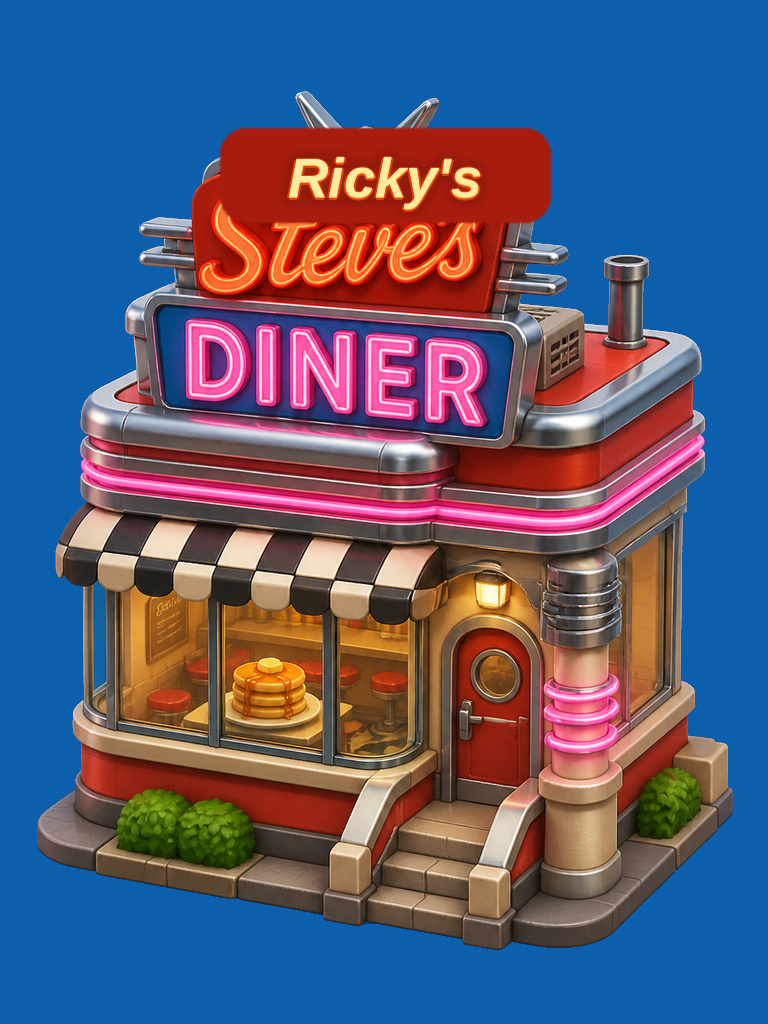
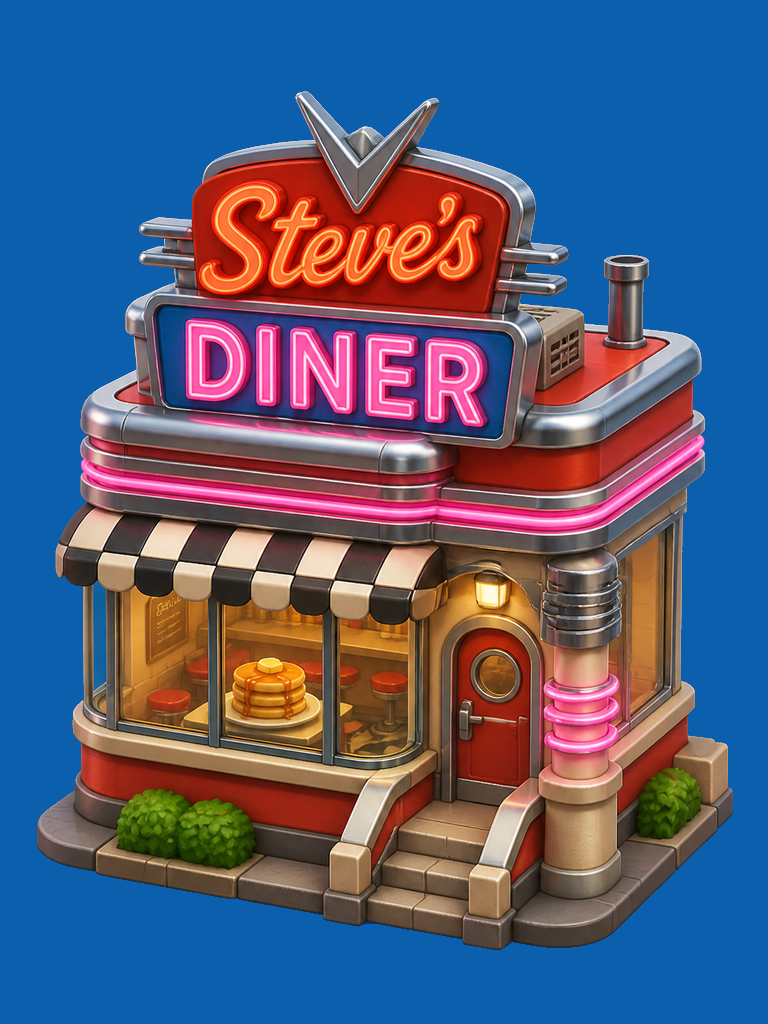
Restore Steve's Diner name and signage art
Revert Ricky's rename: card/troop art back to Steve's neon, and all
in-game labels/alt text to Steve's Diner.

Changed region(s): [[0.2812, 0.125, 0.7188, 0.2188]]

diff --git a/philroyale/src/progression.ts b/philroyale/src/progression.ts
@@ -72,7 +72,7 @@ export const TROPHY_ROAD: TrophyRoadReward[] = [
   { trophies: 600, arena: 'Sundae Strip', label: 'x1 Michael', gold: 150, unlockCard: 'mike' },
   { trophies: 625, arena: 'Sundae Strip', label: 'x1 Scott', unlockCard: 'scott', gold: 60 },
   { trophies: 650, arena: 'Sundae Strip', label: 'x1 Baseball Huck', unlockCard: 'footballHuck', gold: 70 },
-  { trophies: 675, arena: 'Sundae Strip', label: "x1 Ricky's Diner", unlockCard: 'stevesDiner', gold: 65 },
+  { trophies: 675, arena: 'Sundae Strip', label: "x1 Steve's Diner", unlockCard: 'stevesDiner', gold: 65 },
   { trophies: 700, arena: 'Sundae Strip', label: 'x1 Big Mable', unlockCard: 'bigMable', gold: 80, unlockEmote: 'party' },
   { trophies: 700, arena: 'Sundae Strip', label: 'Rare Chest', chest: 'rare', gold: 50 },
   { trophies: 725, arena: 'Sundae Strip', label: 'x1 Bobby Special', unlockCard: 'bobbySpecial', gold: 90 },

diff --git a/philroyale/src/useBattle.ts b/philroyale/src/useBattle.ts
@@ -158,7 +158,7 @@ const CASH_PROJECTILE_MS = 700
 /** Phil's Car rocket — long hang time. */
 const ROCKET_PROJECTILE_MS = 5000
 const ROCKET_VFX_MS = 620
-/** Ricky's Diner pancake stack lob. */
+/** Steve's Diner pancake stack lob. */
 const PANCAKE_PROJECTILE_MS = 850
 /** Big Mable Launch flight — ms per tile of knockback (clamped). */
 const LAUNCH_MS_PER_TILE = 32
@@ -1843,7 +1843,7 @@ export function useBattle(opts?: {
 
         // Buildings: stationary. Spawners (Dog Hut) or turrets (Phil's Car).
         if (isBuildingCard(def)) {
-          // Buildings bleed HP while standing (Ricky's Diner 12/sec; others default 25).
+          // Buildings bleed HP while standing (Steve's Diner 12/sec; others default 25).
           const drain = (def.hpDecayPerSec ?? 25) * dt
           if (drain > 0 && u.hp > 0) {
             u.hp = Math.max(0, u.hp - drain)

diff --git a/philroyale/src/characters/StevesDinerModel.tsx b/philroyale/src/characters/StevesDinerModel.tsx
@@ -13,14 +13,14 @@ type Props = {
   portrait?: boolean
 }
 
-/** Ricky's Diner — stationary building; Pancake Huck lob. */
+/** Steve's Diner — stationary building; Pancake Huck lob. */
 export function StevesDinerModel({ anim, facing, attackId, portrait }: Props) {
   return (
     <PhotoTroop
       cardSrc={CARD}
       troopSrc={TROOP}
       troopBackSrc={BACK}
-      alt="Ricky's Diner"
+      alt="Steve's Diner"
       anim={anim}
       facing={facing}
       portrait={portrait}

diff --git a/philroyale/src/characters.ts b/philroyale/src/characters.ts
@@ -560,8 +560,8 @@ export const PHILS_CAR: CharacterDef = {
 /** Rare diner turret — Pancake Huck splash lob. */
 export const STEVES_DINER: CharacterDef = {
   id: 'stevesDiner',
-  name: "Ricky's Diner",
-  initial: 'RD',
+  name: "Steve's Diner",
+  initial: 'SD',
   pronoun: 'it',
   height: "4'6\"",
   rarity: 'common',

diff --git a/philroyale/src/UnitToken.tsx b/philroyale/src/UnitToken.tsx
@@ -384,7 +384,7 @@ export function SundaeSplat({ ageMs }: { ageMs: number }) {
   )
 }
 
-/** Flying pancake stack for Ricky's Diner Pancake Huck. */
+/** Flying pancake stack for Steve's Diner Pancake Huck. */
 export function PancakeDot() {
   return (
     <div className="relative h-6 w-7" aria-hidden>
